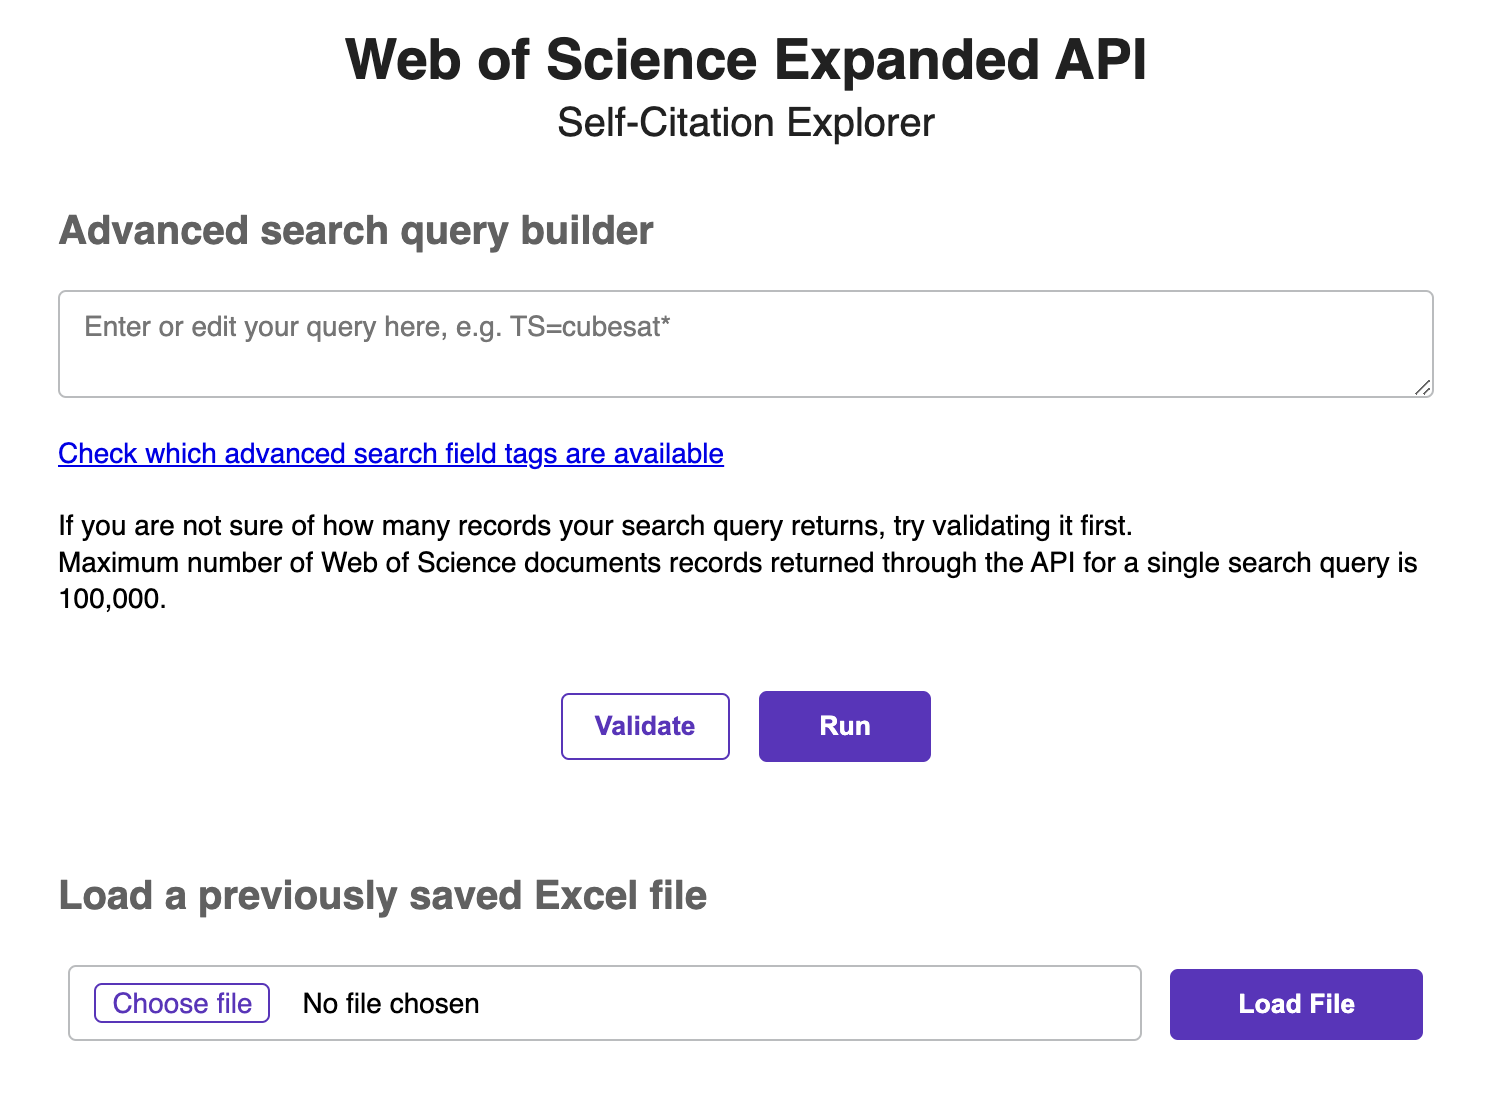
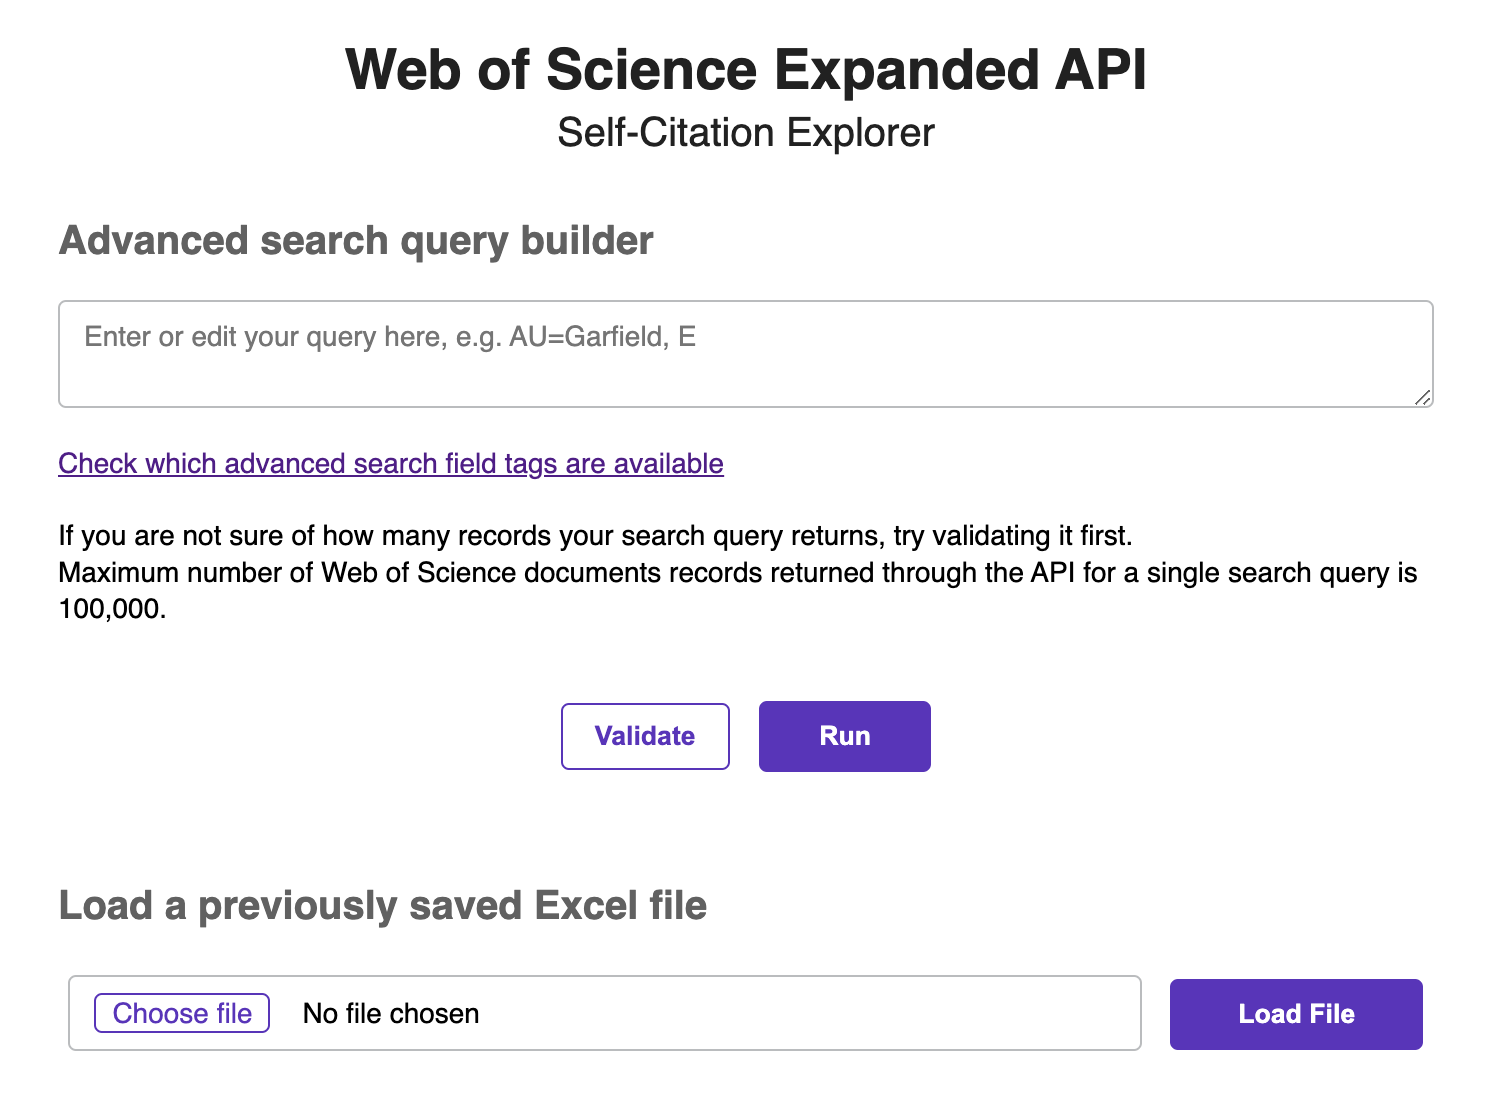
minor fixes to self_citation_explorer

diff --git a/python/self_citation_explorer/templates/index.html b/python/self_citation_explorer/templates/index.html
@@ -21,7 +21,7 @@
                         <label for="search_query" class="form__label"></label>
                         <textarea class="form__textarea" name="search_query" id="search_query"
                                   aria-label="Search Query"
-                                  placeholder="Enter or edit your query here, e.g. TS=cubesat*">{{search_query}}</textarea>
+                                  placeholder="Enter or edit your query here, e.g. AU=Garfield, E">{{search_query}}</textarea>
                     </p>
                     <p><a href="https://webofscience.help.clarivate.com/en-us/Content/wos-core-collection/woscc-search-field-tags.htm">Check which advanced search field tags are available</a><br><br>
                     If you are not sure of how many records your search query returns, try validating it first.<br>

diff --git a/python/self_citation_explorer/data_processing.py b/python/self_citation_explorer/data_processing.py
@@ -169,9 +169,9 @@ def fetch_rids(name_json):
             if data_item_id['id-type'] == 'PreferredRID':
                 return data_item_id['content']
         else:
-            for item_id in data_item_id:
-                if item_id['id-type'] == 'PreferredRID':
-                    return item_id['content']
+            for _id in data_item_id:
+                if _id['id-type'] == 'PreferredRID':
+                    return _id['content']
     return set()
 
 

diff --git a/python/self_citation_explorer/Readme.md b/python/self_citation_explorer/Readme.md
@@ -19,9 +19,9 @@ This is how it works.
 ```
 EXPANDED_APIKEY = 'mY3xp4nd3d4p1k3y1$$0m37h1ngl1k37h1$'
 ```
-3. And don't forget to install dependencies listed in the requirements.txt file.
+3. Finally, don't forget to install the dependencies listed in the requirements.txt file.
 
-And launch the code.
+And launch the `app.py` file.
 
 The program will create a development server at http://127.0.0.1:5000 which you can open locally in any browser. This is what the start page looks like:
 
